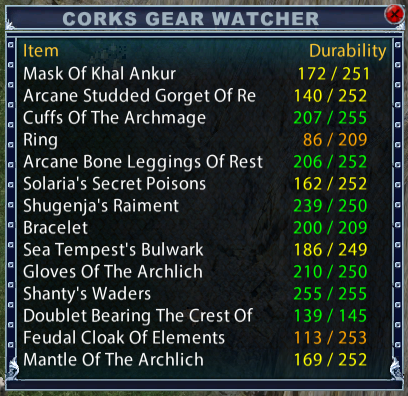
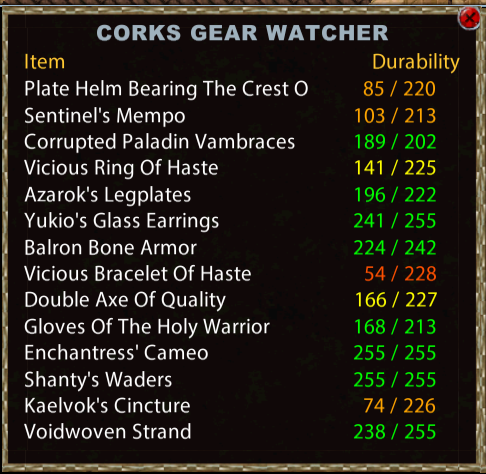
Updated README with latest gump screenshots

diff --git a/README.md b/README.md
@@ -121,6 +121,11 @@ Timers are defined in the `CorksTimers.Timers` table at the top of `Source/Corks
 
 ### Combat Timers
 
+<p>
+  <img src="CombatTimersGump.png" alt="Item Timers" height="200">
+</p>
+
+
 A second timer window, laid out like the potion timers, for combat abilities. A row appears when the ability's buff icon appears, and goes through three stages:
 
 1. **Active** (blue bar): counts down the time the ability has left, taken from the buff icon.
